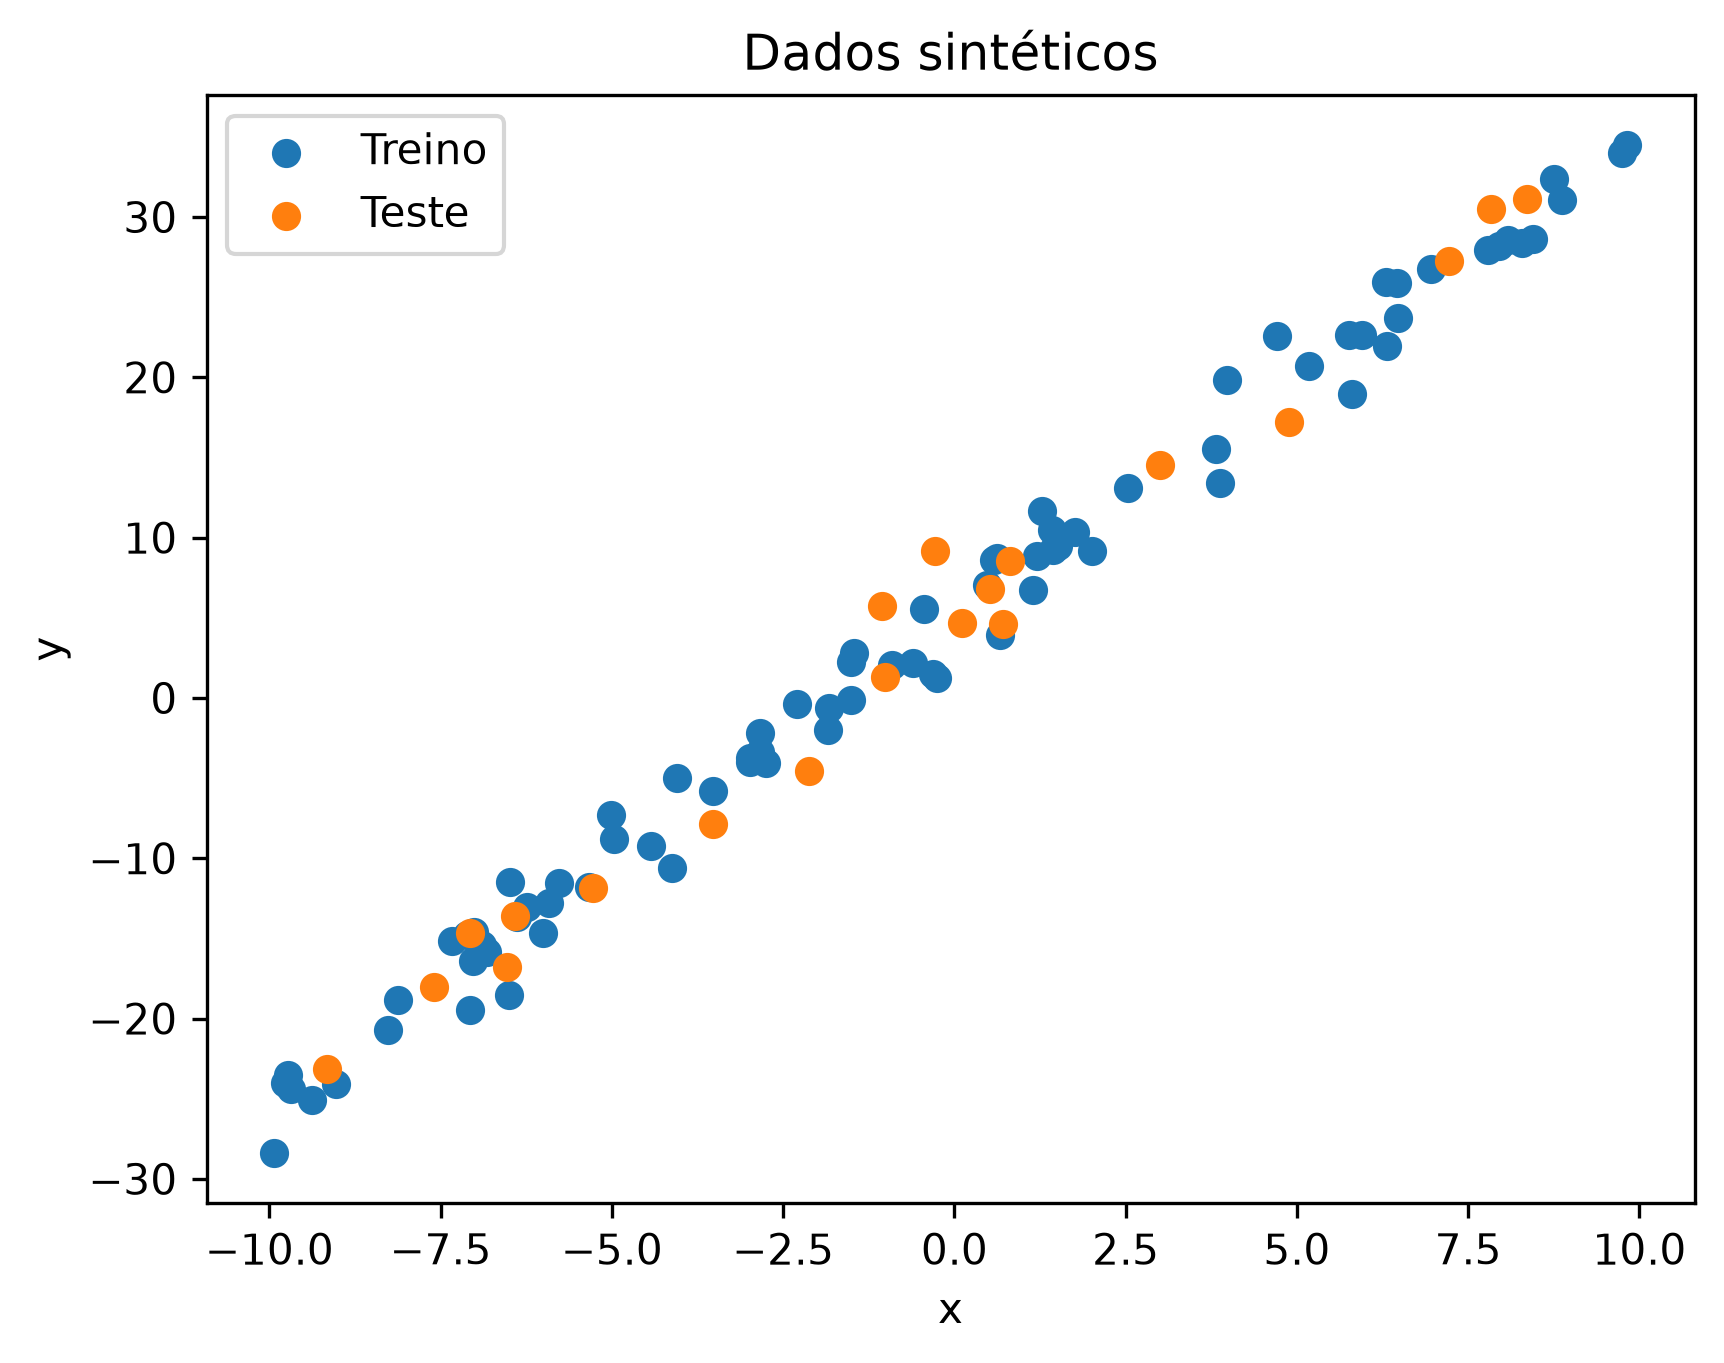
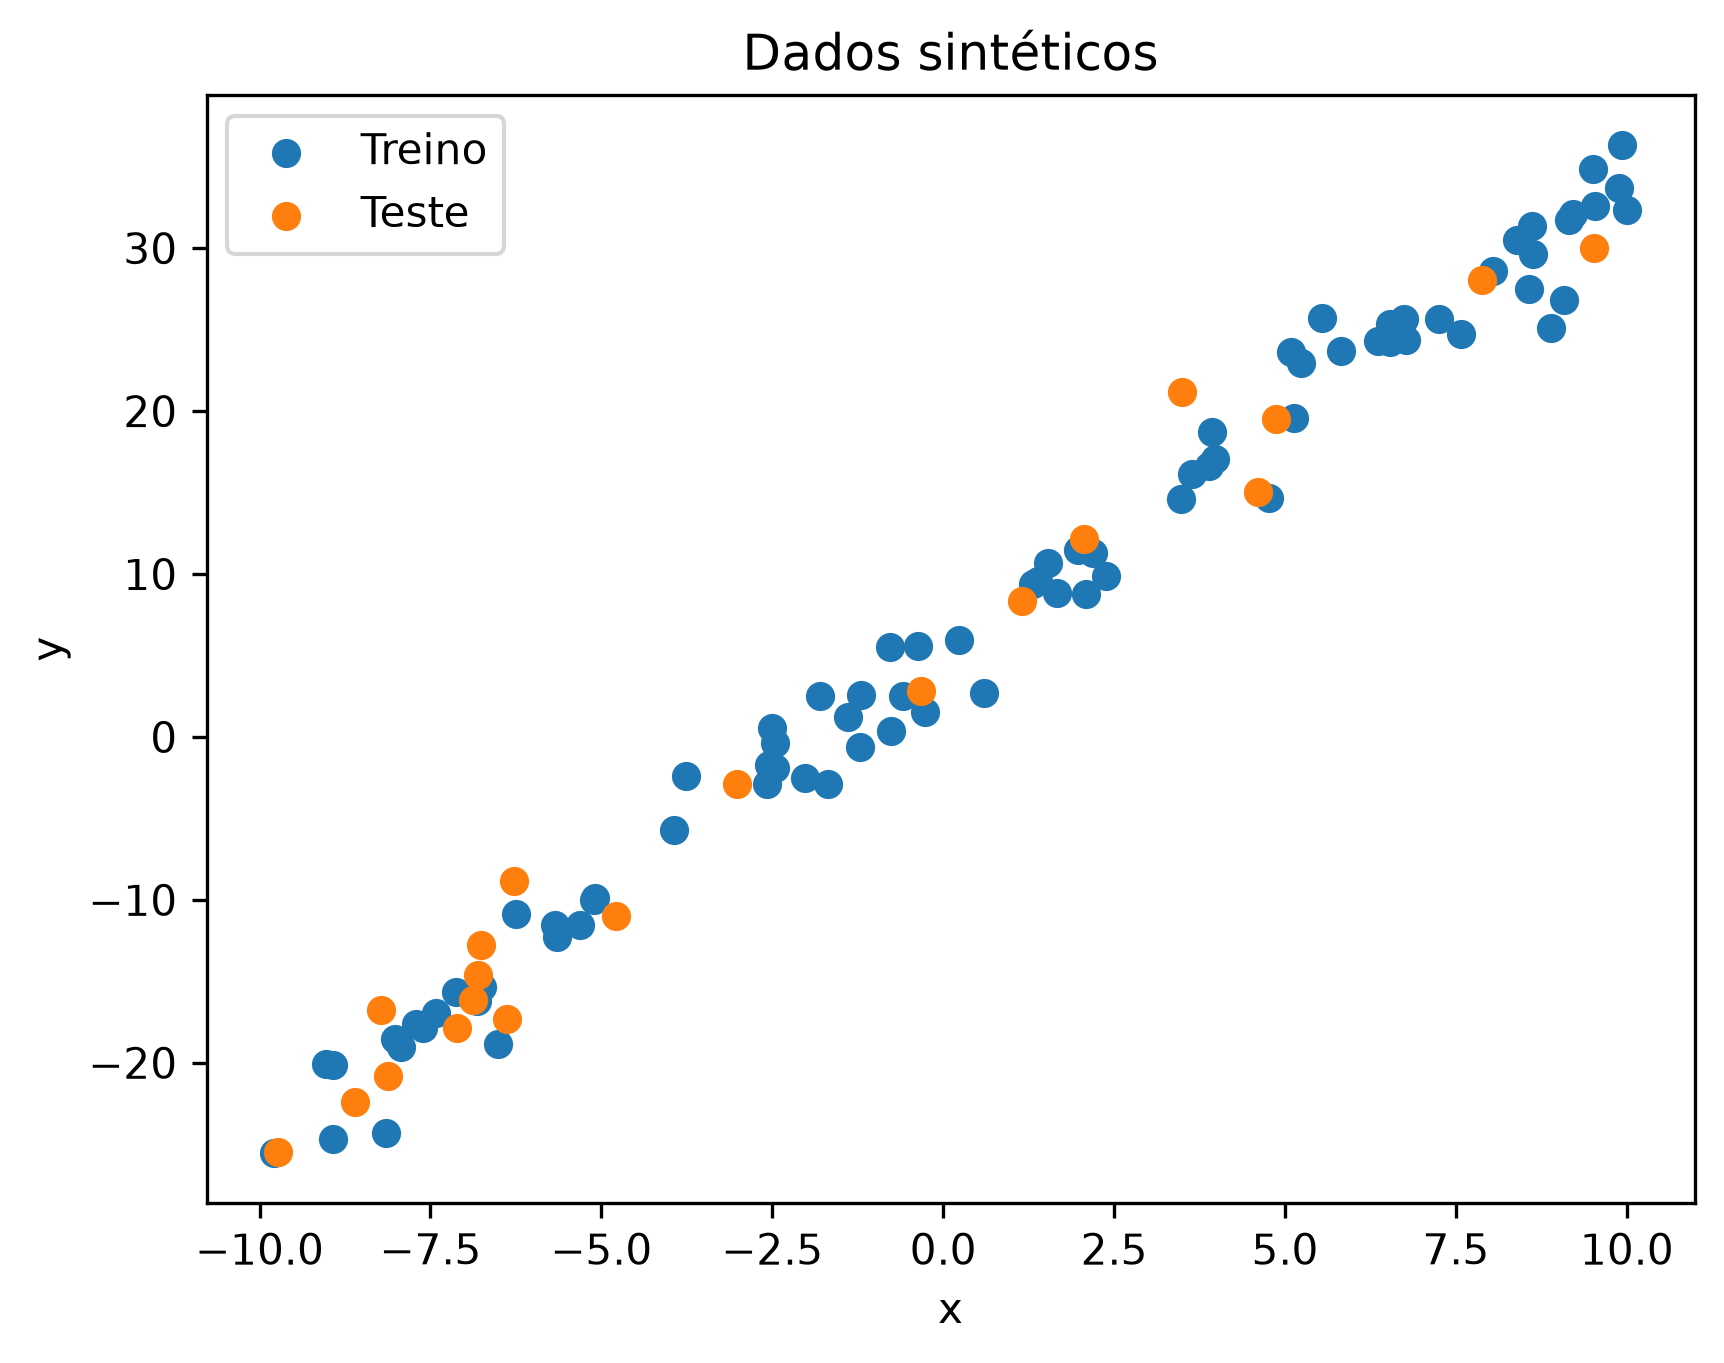
Questao 4

diff --git a/questao4/main.py b/questao4/main.py
@@ -1,0 +1,185 @@
+import torch
+import torch.nn as nn
+import torch.optim as optim
+import torchvision
+import torchvision.transforms as transforms
+import matplotlib.pyplot as plt
+
+
+torch.manual_seed(42)
+
+dispositivo = torch.device("cuda" if torch.cuda.is_available() else "cpu")
+
+
+# 1. Carregamento dos dados
+
+transformacao = transforms.ToTensor()
+
+dados_treino = torchvision.datasets.MNIST(
+    root="./dados",
+    train=True,
+    download=True,
+    transform=transformacao
+)
+
+dados_teste = torchvision.datasets.MNIST(
+    root="./dados",
+    train=False,
+    download=True,
+    transform=transformacao
+)
+
+
+# 2. DataLoaders
+
+batch_size = 64
+
+loader_treino = torch.utils.data.DataLoader(
+    dados_treino,
+    batch_size=batch_size,
+    shuffle=True
+)
+
+loader_teste = torch.utils.data.DataLoader(
+    dados_teste,
+    batch_size=batch_size,
+    shuffle=False
+)
+
+
+# 3. Modelo MLP
+
+class MLP(nn.Module):
+    def __init__(self):
+        super().__init__()
+
+        self.camada_oculta = nn.Linear(784, 64)
+        self.relu = nn.ReLU()
+        self.camada_saida = nn.Linear(64, 10)
+
+    def forward(self, x):
+        x = x.view(x.size(0), 784)
+
+        x = self.camada_oculta(x)
+        x = self.relu(x)
+        x = self.camada_saida(x)
+
+        return x
+
+
+modelo = MLP()
+modelo = modelo.to(dispositivo)
+
+
+# 4. Função de perda e otimizador
+
+criterio = nn.CrossEntropyLoss()
+
+otimizador = optim.Adam(
+    modelo.parameters(),
+    lr=0.001
+)
+
+
+# 5. Treinamento
+
+epocas = 10
+
+historico_loss = []
+
+for epoca in range(epocas):
+
+    modelo.train()
+
+    soma_loss = 0
+
+    for imagens, rotulos in loader_treino:
+
+        imagens = imagens.to(dispositivo)
+        rotulos = rotulos.to(dispositivo)
+
+        saidas = modelo(imagens)
+
+        loss = criterio(saidas, rotulos)
+
+        otimizador.zero_grad()
+        loss.backward()
+        otimizador.step()
+
+        soma_loss = soma_loss + loss.item()
+
+    loss_media = soma_loss / len(loader_treino)
+    historico_loss.append(loss_media)
+
+    print("Época:", epoca + 1, "Loss médio:", loss_media)
+
+
+# 6. Avaliação no teste
+
+modelo.eval()
+
+quantidade_corretas = 0
+quantidade_total = 0
+
+with torch.no_grad():
+
+    for imagens, rotulos in loader_teste:
+
+        imagens = imagens.to(dispositivo)
+        rotulos = rotulos.to(dispositivo)
+
+        saidas = modelo(imagens)
+
+        previsoes = torch.argmax(saidas, dim=1)
+
+        quantidade_corretas = quantidade_corretas + (previsoes == rotulos).sum().item()
+        quantidade_total = quantidade_total + rotulos.size(0)
+
+acuracia = quantidade_corretas / quantidade_total
+
+print("Acurácia no teste:", acuracia)
+
+
+# 7. Gráfico da loss
+
+plt.plot(range(1, epocas + 1), historico_loss)
+
+plt.xlabel("Época")
+plt.ylabel("Loss médio")
+plt.title("Evolução da função de perda")
+
+plt.savefig("loss_mnist.png", dpi=300, bbox_inches="tight")
+plt.close()
+
+
+# 8. Algumas previsões
+
+imagens, rotulos = next(iter(loader_teste))
+
+imagens = imagens.to(dispositivo)
+rotulos = rotulos.to(dispositivo)
+
+modelo.eval()
+
+with torch.no_grad():
+    saidas = modelo(imagens)
+    previsoes = torch.argmax(saidas, dim=1)
+
+imagens = imagens.cpu()
+rotulos = rotulos.cpu()
+previsoes = previsoes.cpu()
+
+plt.figure(figsize=(10, 4))
+
+for i in range(10):
+    plt.subplot(2, 5, i + 1)
+
+    imagem = imagens[i].squeeze()
+
+    plt.imshow(imagem, cmap="gray")
+    plt.title("Real: " + str(rotulos[i].item()) + "\nPred: " + str(previsoes[i].item()))
+    plt.axis("off")
+
+plt.tight_layout(h_pad=2.0)
+plt.savefig("previsoes_mnist.png", dpi=300, bbox_inches="tight")
+plt.close()

diff --git a/questao1/main.py b/questao1/main.py
@@ -108,8 +108,8 @@ for epoca in range(epocas):
 
     historico_loss.append(mse_epoca)
 
-    if epoca % 50 == 0:
-        print("Época:", epoca, "MSE:", mse_epoca)
+    # if epoca % 50 == 0:
+    #     print("Época:", epoca, "MSE:", mse_epoca)
 
 
 print()